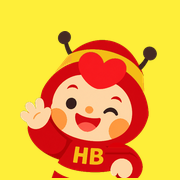
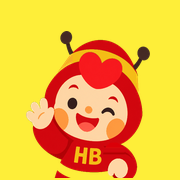
앱 아이콘 캐릭터 가로 1.1배 줄임(세로·위치 그대로), 아이콘 주소 v=1008b

diff --git a/index.html b/index.html
@@ -1,9 +1,9 @@
 <!DOCTYPE html>
 <html lang="ko">
 <head>
-<link rel="manifest" href="manifest.json?v=1008">
-<link rel="icon" href="icon-192.png?v=1008">
-<link rel="apple-touch-icon" href="icon-180.png?v=1008">
+<link rel="manifest" href="manifest.json?v=1008b">
+<link rel="icon" href="icon-192.png?v=1008b">
+<link rel="apple-touch-icon" href="icon-180.png?v=1008b">
 <meta name="mobile-web-app-capable" content="yes">
 <meta name="apple-mobile-web-app-capable" content="yes">
 <meta name="apple-mobile-web-app-title" content="출석">
